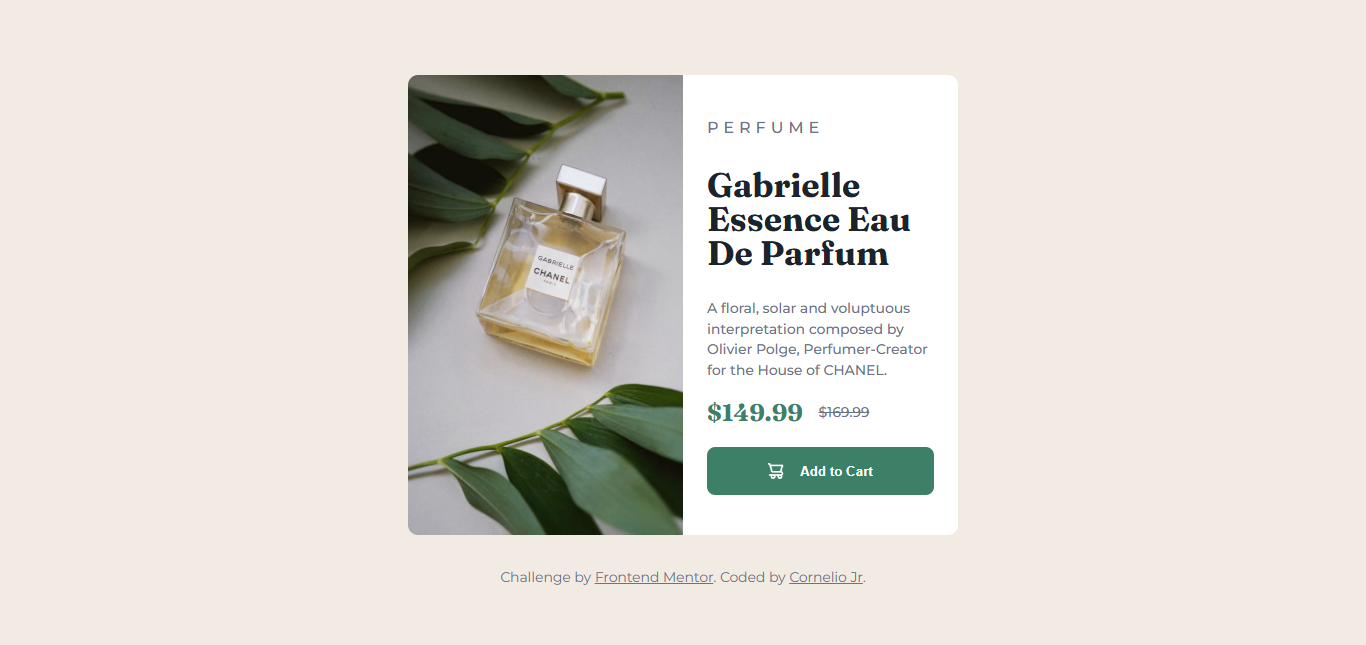
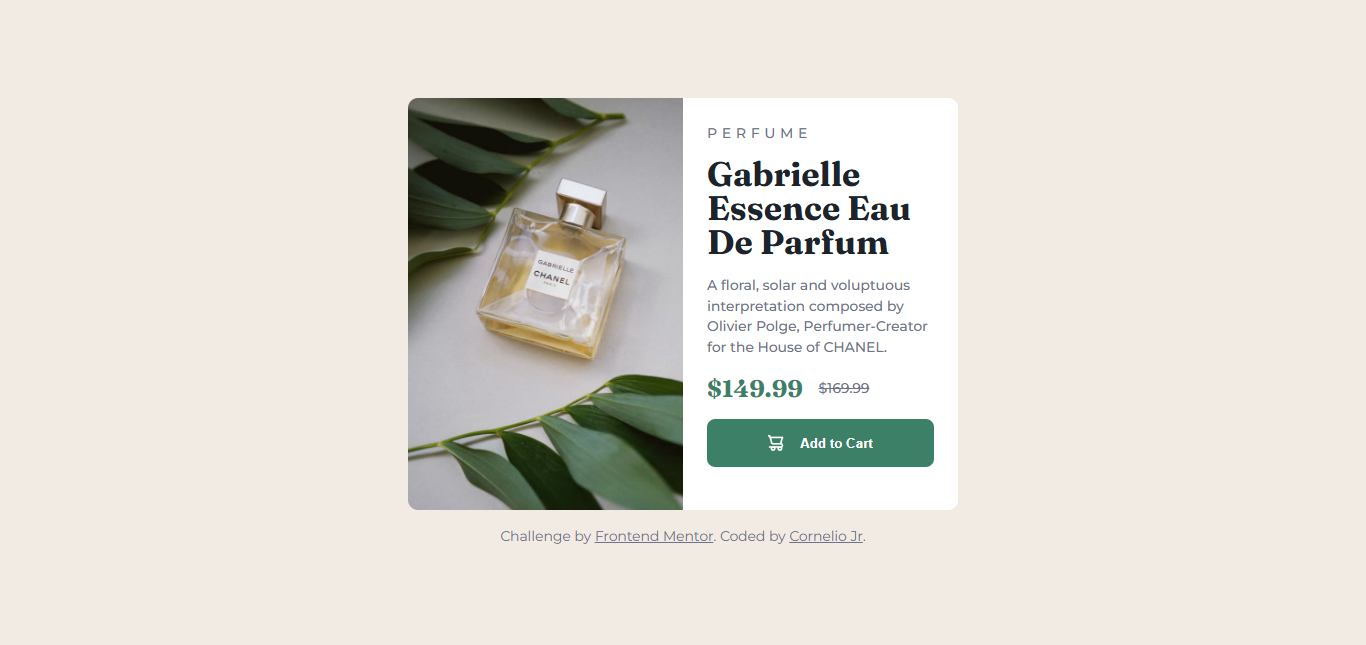
Style: updating clean codes, and remove uncessary syntax

diff --git a/src/components/Product-Preview.vue b/src/components/Product-Preview.vue
@@ -19,8 +19,8 @@ import addtoCartIcon from '/icon-cart.svg';
       </div>
     </header>
     <div class="product_info">
-      <h3 class="category-name">PERFUME</h3>
-      <h1>Gabrielle Essence Eau De Parfum</h1>
+      <h4 class="category-name">PERFUME</h4>
+      <h1 class="product-name">Gabrielle Essence Eau De Parfum</h1>
       <p class="description">
         A floral, solar and voluptuous interpretation composed by Olivier Polge, 
         Perfumer-Creator for the House of CHANEL.
@@ -49,10 +49,11 @@ import addtoCartIcon from '/icon-cart.svg';
 .product-container{
   display: flex;
   flex-direction: column;
+  align-items: center;
   background-color: var(--neutral-color-white);
   border-radius: 0.625rem; 
   overflow: hidden;
-  margin: 2rem;
+  line-height: normal;
   max-width: 34.375rem;
 }
 .product_info {
@@ -64,7 +65,14 @@ import addtoCartIcon from '/icon-cart.svg';
   color: var(--neutral-color-gray);
   font-weight: var(--montserrat-font-weight-medium);
 }
-
+.product-name{
+  margin: 1rem 0;
+  font-family: var(--fraunces-font);
+  font-weight: var(--fraunces-font-weight-bold);
+  font-size: var(--h1-font-size);
+  line-height: 1;
+  color: var(--neutral-color-black);
+}
 .current-price { 
   color: var(--primary-color-500);
   font-size: clamp(1.125rem, 1.2rem + 1vw, 1.5rem);
@@ -93,7 +101,9 @@ import addtoCartIcon from '/icon-cart.svg';
   text-decoration: none;
 }
 .description{
-    font-weight: var(--montserrat-font-weight-medium);
+  margin: 1rem 0;
+  font-weight: var(--montserrat-font-weight-medium);
+  line-height: 1.5;
  }
 .add-to-cart{
   width: 100%;
@@ -132,13 +142,7 @@ import addtoCartIcon from '/icon-cart.svg';
   .product-container{
     display: grid;
     grid-template-columns: repeat(2, 1fr);
-    place-content: center;
   }
-
-  .image-container{
-    width: fit-content;
-    height: 100%;
-  }
-
 }
+
 </style>

diff --git a/src/style.css b/src/style.css
@@ -27,11 +27,10 @@
 
 *, *::before, *::after {
   box-sizing: border-box;
-}
- 
-body, html{
   margin: 0;
   padding: 0;
+}
+body, html{
   scroll-behavior: smooth;
   text-rendering: optimizeLegibility;
   -webkit-font-smoothing: antialiased;
@@ -49,6 +48,7 @@ body{
   font-weight: var(--montserrat-font-weight);
   font-size: var(--body-font-size);
   transition: all 0.3s ease-in-out;
+  padding: 1rem;
 }
 
 picture, video,
@@ -67,11 +67,4 @@ picture img{
   display: block;
   width: 100%;
   height: 100%;
-}
-h1{
-  font-family: var(--fraunces-font);
-  font-weight: var(--fraunces-font-weight-bold);
-  font-size: var(--h1-font-size);
-  line-height: 1;
-  color: var(--neutral-color-black);
 }
